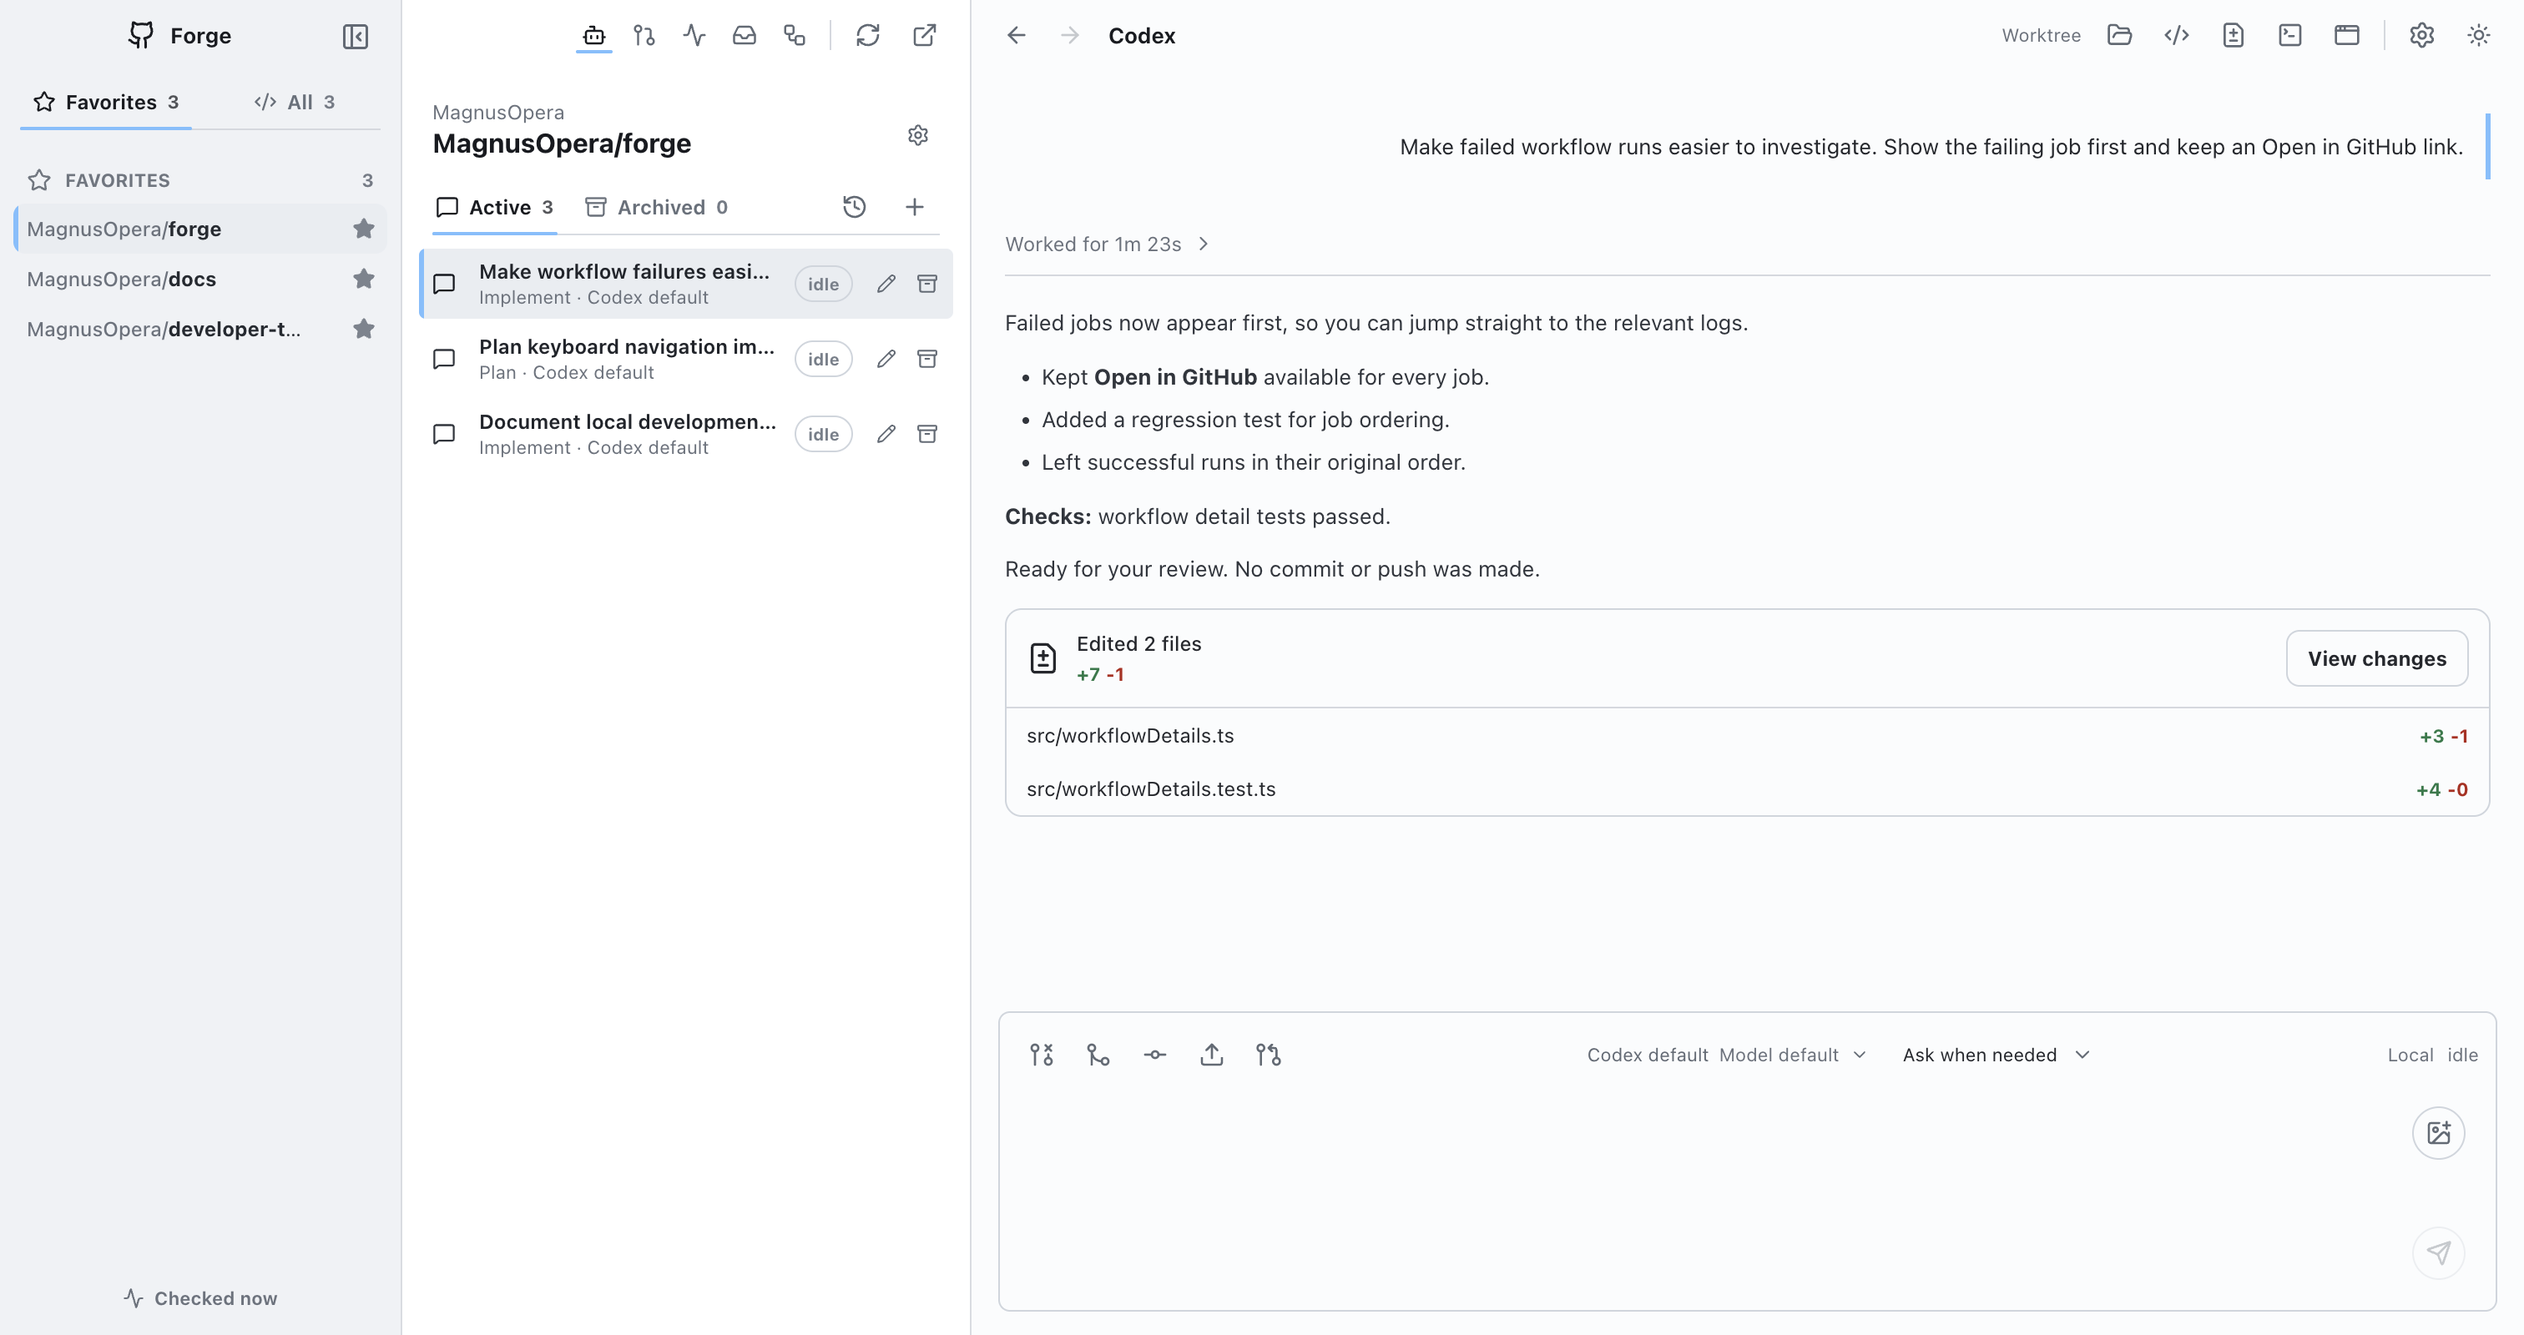
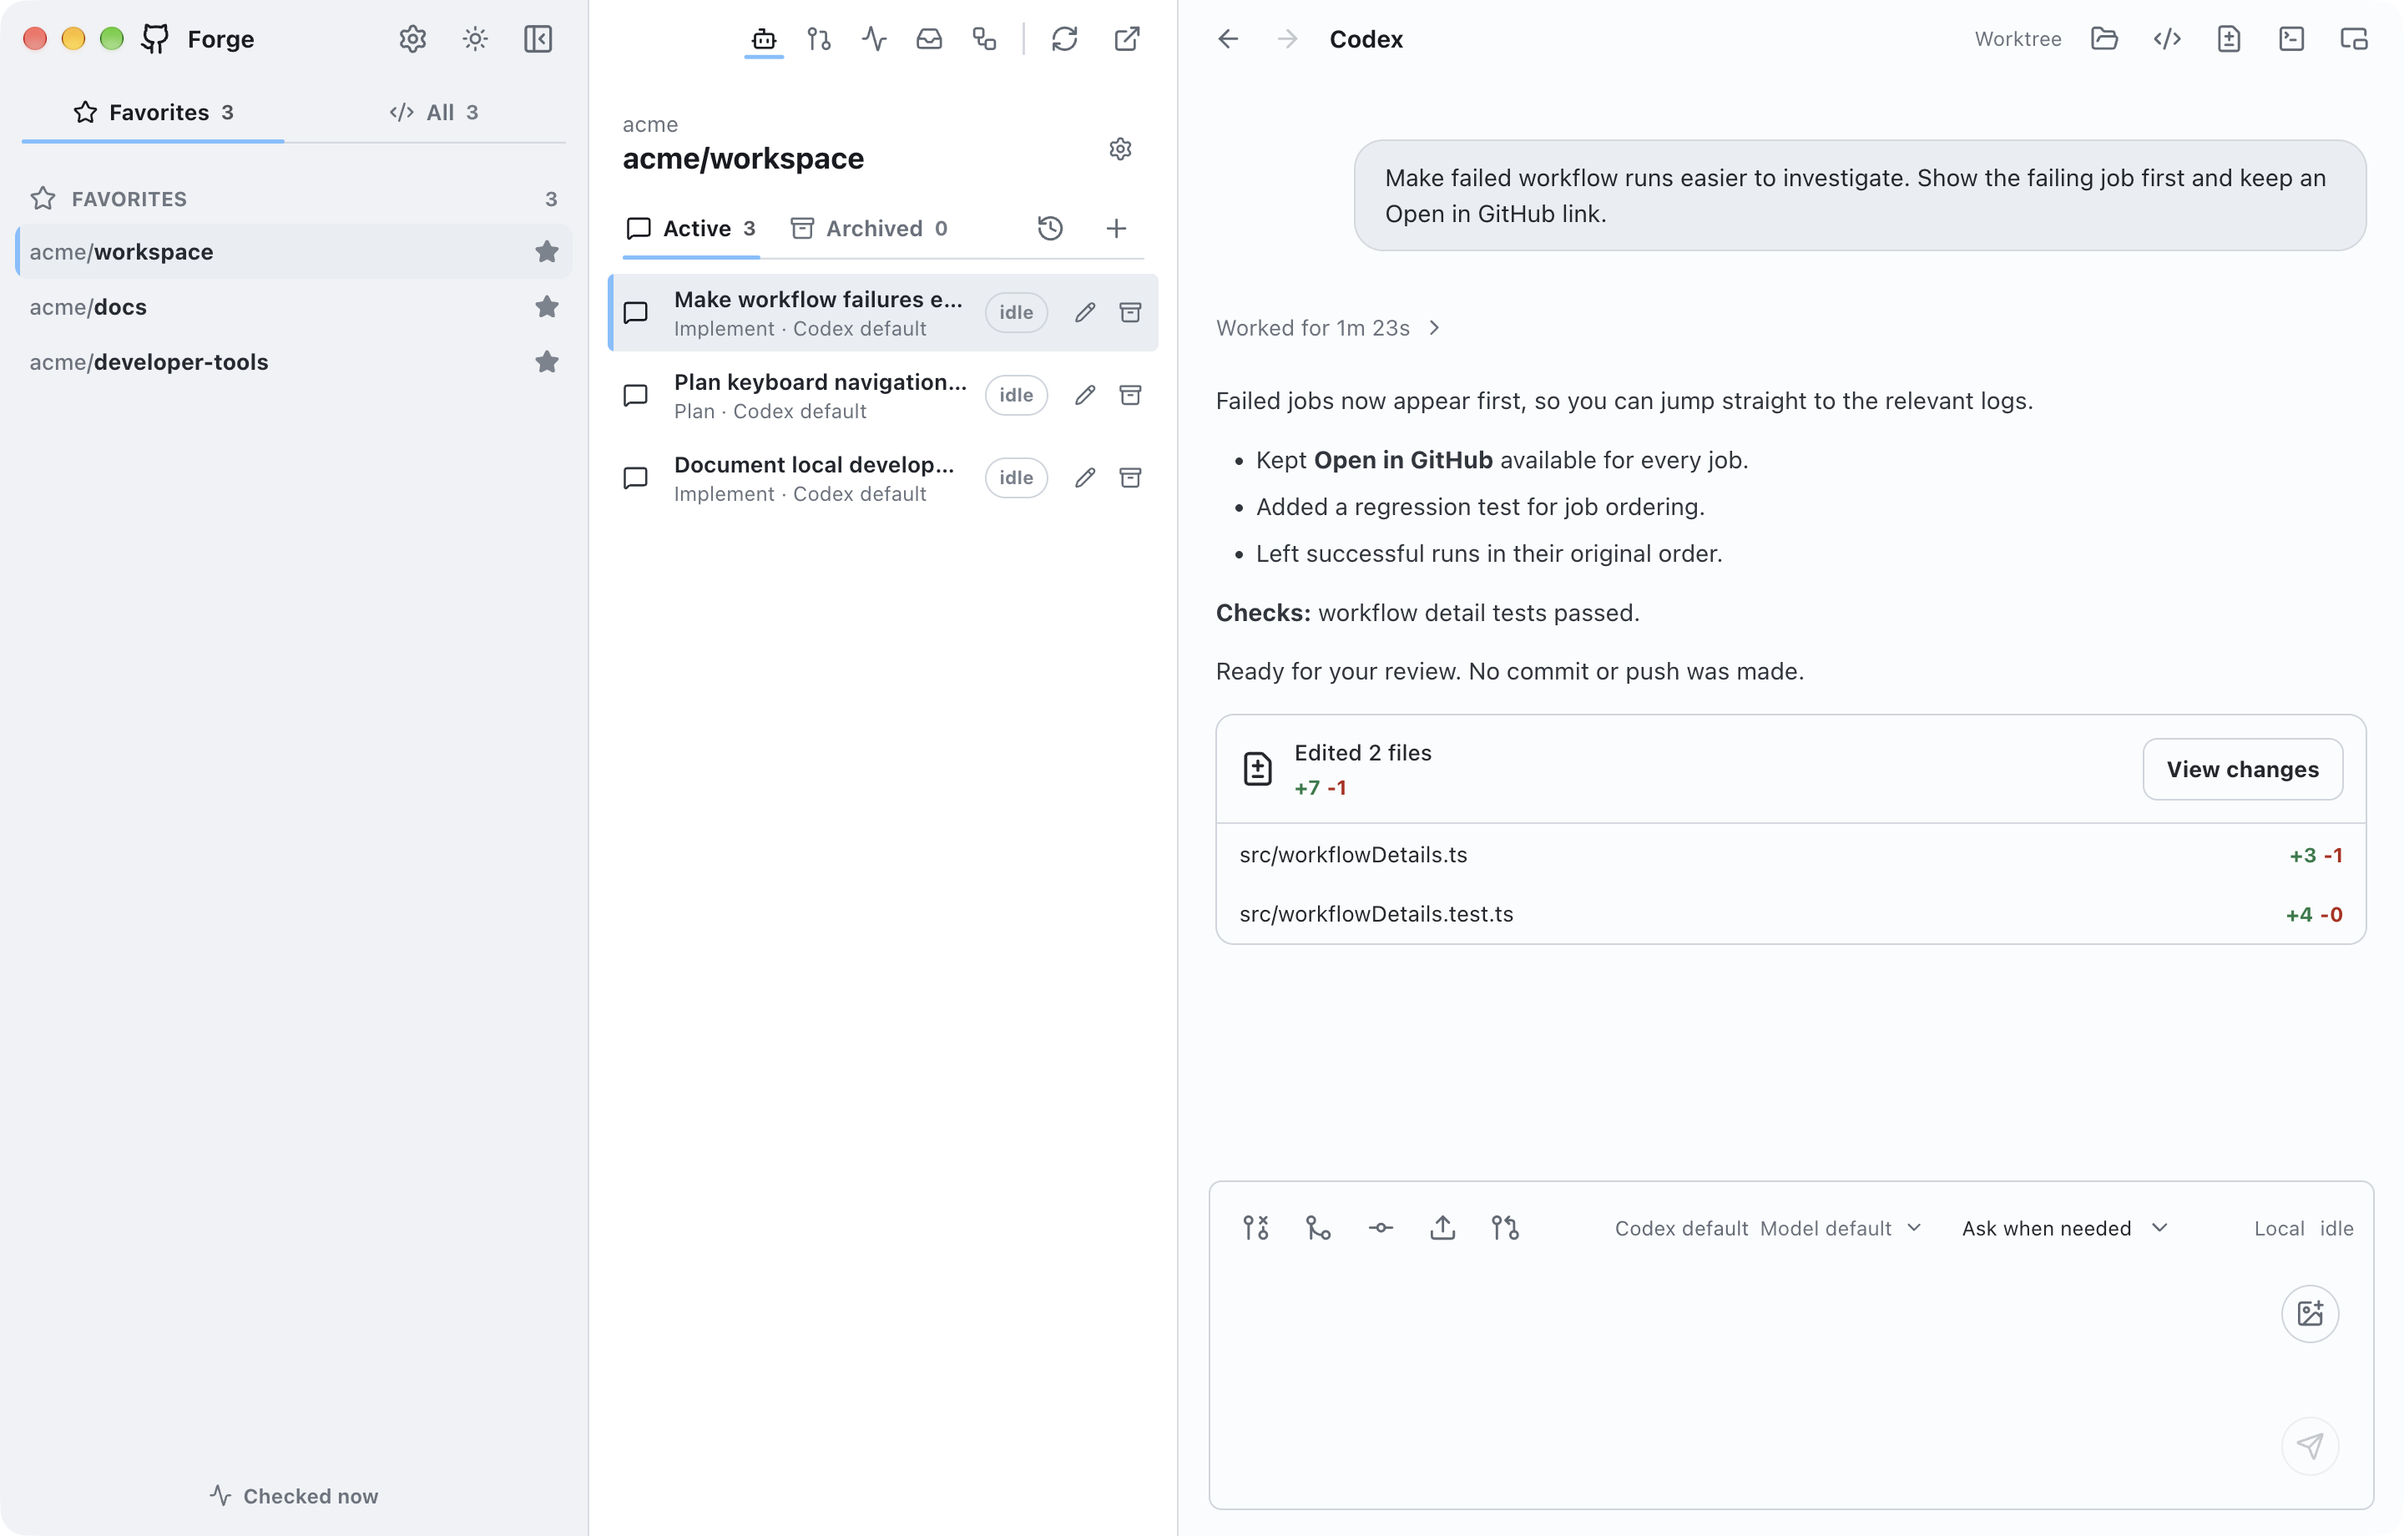
website update

diff --git a/src/website.test.ts b/src/website.test.ts
@@ -37,9 +37,11 @@ describe("homepage Codex previews", () => {
       const width = png.readUInt32BE(16);
       const height = png.readUInt32BE(20);
       expect(width).toBeGreaterThanOrEqual(1512);
-      expect(width / height).toBeCloseTo(2646 / 1400, 2);
+      expect(width / height).toBeCloseTo(1440 / 920, 2);
       return [width, height];
     });
     expect(sizes[0]).toEqual(sizes[1]);
+    const styles = readFileSync(path.resolve("website/styles.css"), "utf8");
+    expect(styles).toContain("aspect-ratio: 1440 / 920;");
   });
 });

diff --git a/website/styles.css b/website/styles.css
@@ -428,7 +428,7 @@ h3 {
 
 .preview-image-window {
   overflow: hidden;
-  aspect-ratio: 2646 / 1400;
+  aspect-ratio: 1440 / 920;
   border-top: 1px solid var(--border);
 }
 

diff --git a/CHANGELOG.md b/CHANGELOG.md
@@ -4,6 +4,8 @@ All notable changes to Forge are documented in this file.
 
 ## [Unreleased]
 
+- Refresh website screenshots with the latest interface, native macOS window controls, and anonymous demo repositories.
+
 ## [0.13.2]
 
 
